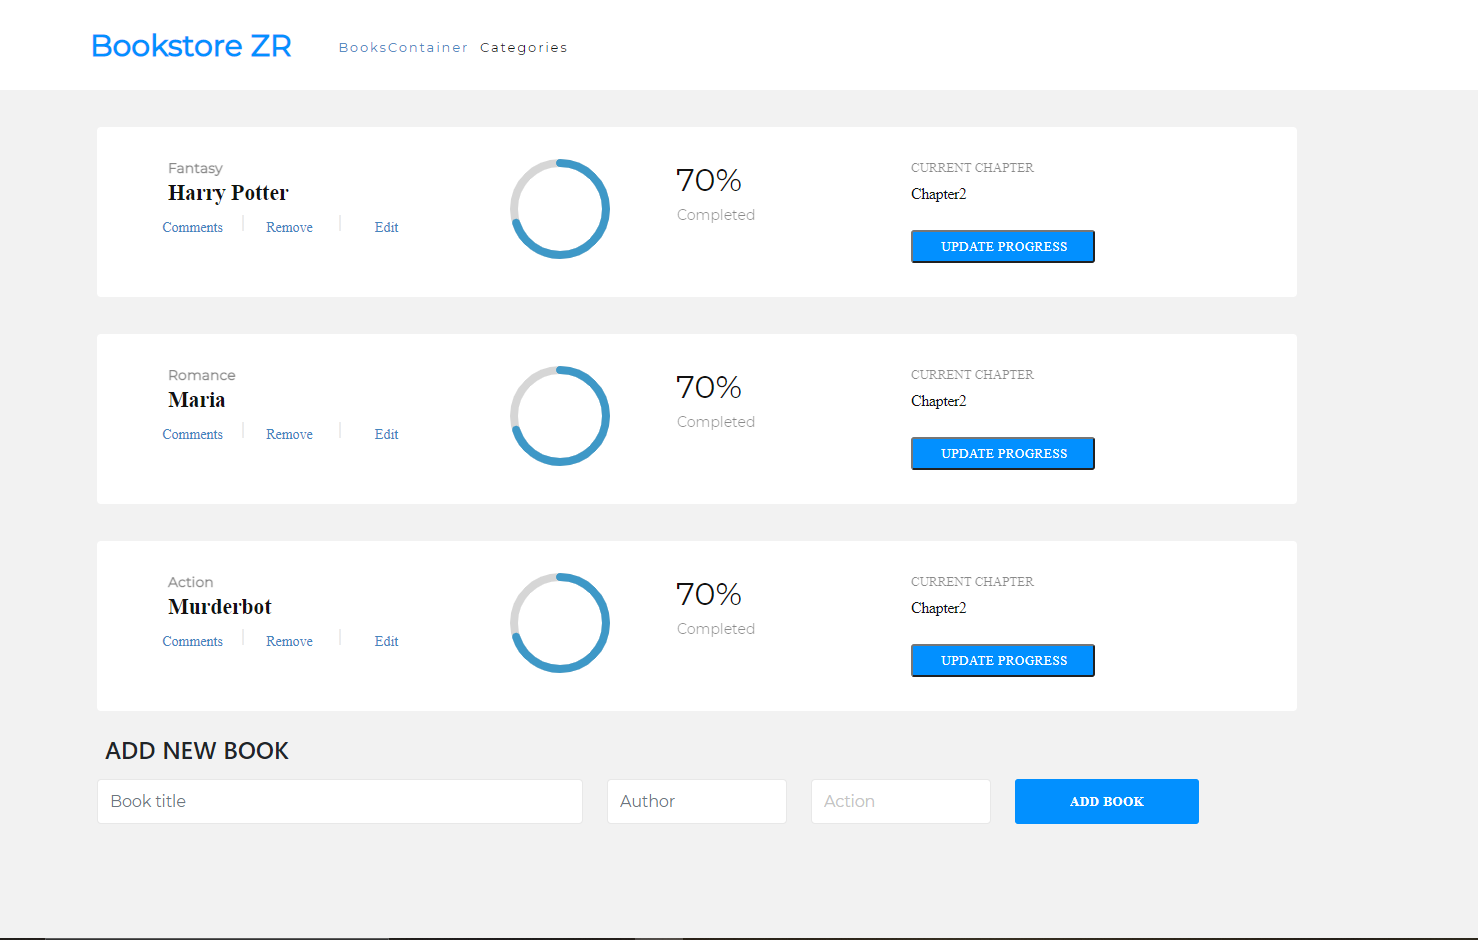
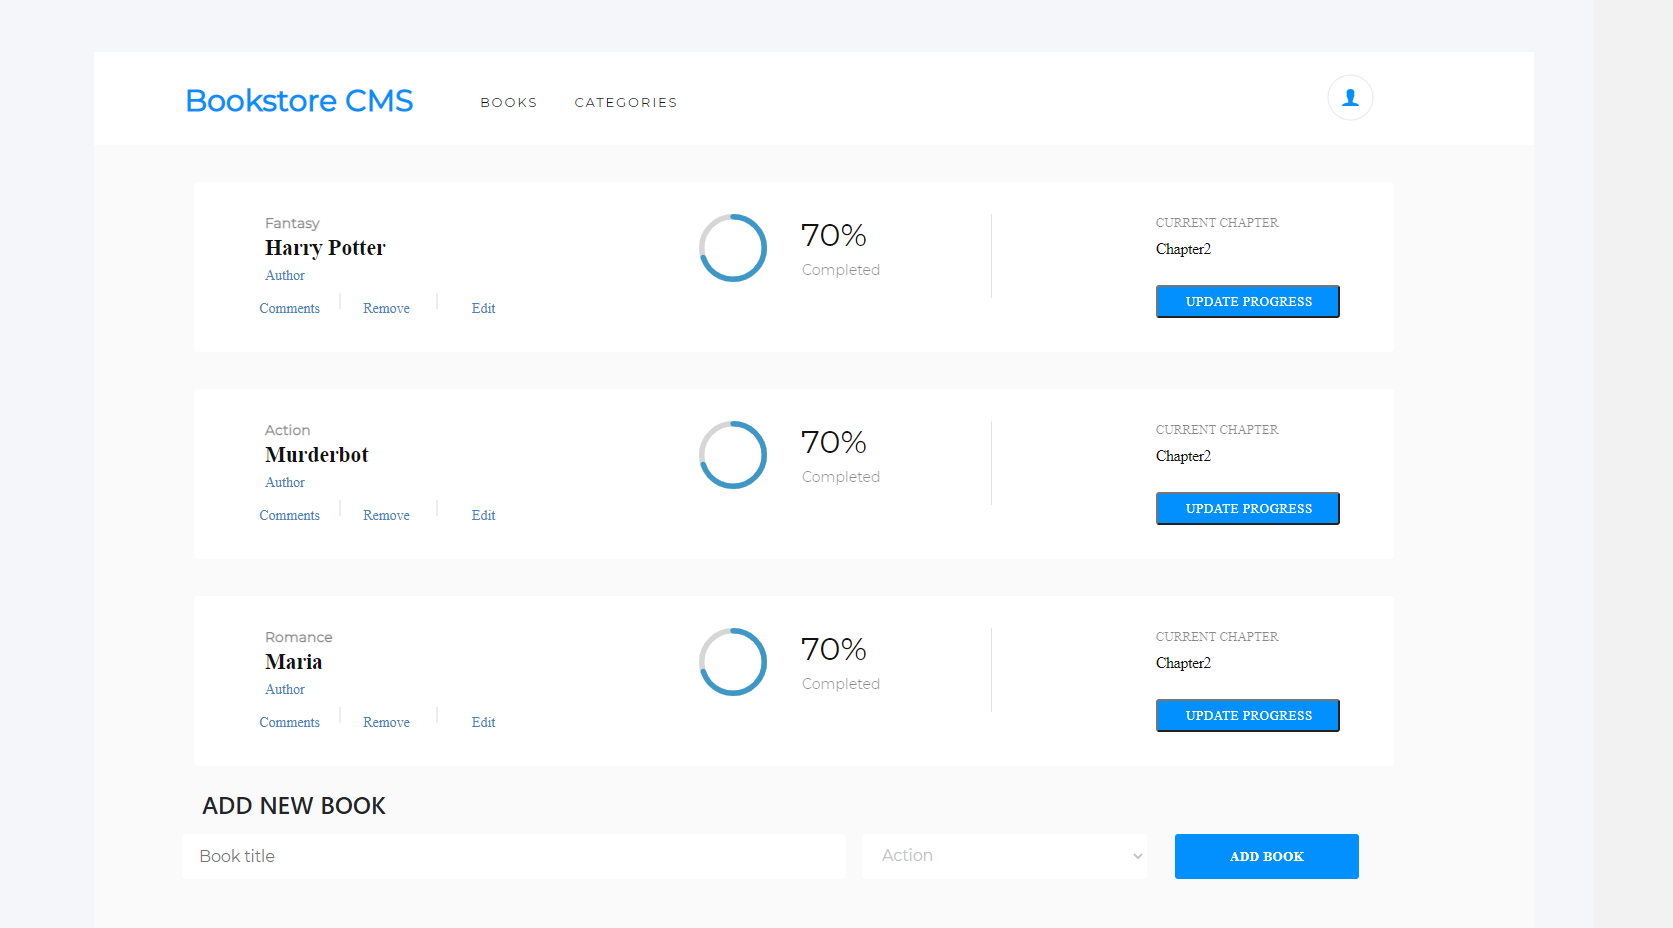
Fix requirements for the style

diff --git a/src/App.css b/src/App.css
@@ -6,6 +6,11 @@ li {
   list-style: none;
 }
 
+.line-2 {
+  border-right: 1px solid #dee2e6 !important;
+  padding-bottom: 2%;
+}
+
 .category {
   width: 3.063rem;
   height: 1.125rem;
@@ -142,10 +147,13 @@ li {
   width: 75rem;
   height: 10.625rem;
   margin: 2.313rem 6.25rem 0;
-  padding: 2rem 9.188rem 1.625rem 1.688rem;
+  padding: 2rem 4rem 1.625rem 1.688rem;
   border-radius: 4px;
   border: solid 1px var(--white);
   background-color: #fff;
+}
+.progress-ul {
+  padding-left: 1% !important;
 }
 
 .title-app {
@@ -183,11 +191,11 @@ li {
 
 a {
   text-decoration: none;
-  color: #121212 !important;
+  color: #181818 !important;
 }
 
 .active-link {
-  color: #4386bf !important;
+  color: #121212 !important;
 }
 
 .add-form {
@@ -226,11 +234,44 @@ a {
   color: #fff;
 }
 
-.input-form {
+.user {
+  position: absolute;
+  left: 83rem;
+  top: 166px;
+}
+
+.author {
+  width: 6.688rem;
+  height: 1.188rem;
+  margin: 0.25rem 0 0;
+  font-family: RobotoSlab;
+  font-size: 0.875rem;
+  font-weight: 300;
+  font-stretch: normal;
+  font-style: normal;
+  line-height: normal;
+  letter-spacing: normal;
+  color: #4386bf;
+}
+
+#root {
+  width: 100rem;
+  height: 89.625rem;
+  padding: 9.313rem 3.75rem 7.688rem 6.25rem;
+  background-color: #f5f6fa;
+}
+.App {
+  background-color: #fafafa;
+  height: 68.563rem;
+}
+
+.input-title {
+  width: 41.5rem;
   height: 2.813rem;
+  margin-right: 1rem;
+  padding: 0.813rem 35.688rem 0.813rem 1.063rem;
   border-radius: 4px;
-  border: solid 1px #e8e8e8;
-  background-color: #fff;
+  border: solid 1px var(--white);
   font-family: Montserrat, "Times New Roman", Times, serif !important;
   font-size: 1rem;
   font-weight: normal;
@@ -239,4 +280,31 @@ a {
   line-height: normal;
   letter-spacing: -0.15px;
   color: #c4c4c4;
+}
+
+.input-category {
+  width: 17.813rem;
+  height: 2.813rem;
+  margin: 0;
+  padding: 0.375rem 0.938rem 0.563rem 1rem;
+  border-radius: 4px;
+  border: solid 1px var(--white);
+  background-color: #fff;
+  font-family: Montserrat;
+  font-size: 1rem;
+  font-weight: normal;
+  font-stretch: normal;
+  font-style: normal;
+  line-height: normal;
+  letter-spacing: -0.15px;
+  color: #c4c4c4;
+}
+
+.div-i {
+  padding: 0;
+  margin: 0;
+}
+
+.div-button {
+  margin-left: 1rem;
 }

diff --git a/src/components/FormBook.js b/src/components/FormBook.js
@@ -30,27 +30,23 @@ const FormBook = () => {
         ADD NEW BOOK
       </h4>
       <form className="row  align-items-center">
-        <div className="col-5">
-          <div className="input-group book-title">
-            <input type="text" className="form-control input-form" id="title" name="title" placeholder="Book title" required />
-          </div>
-        </div>
-        <div className="col-2">
-          <div className="input-group book-author">
-            <input type="text" className="form-control input-form" id="author" name="author" placeholder="Author" required />
+        <div className="col  div-i">
+          <div className="input-group ">
+            <input type="text" className=" input-form input-title" id="title" name="title" placeholder="Book title" required />
           </div>
         </div>
 
-        <div className="col-2">
-          <select className="form-control input-form" id="category" placeholder="category">
+        <div className="col div-i">
+          <select className=" input-form input-category" id="category" placeholder="category">
             <option>Action</option>
             <option>Romance</option>
             <option>Fantasy</option>
             <option>Mistery</option>
+            <option>Fiction</option>
           </select>
         </div>
 
-        <div className="col-2">
+        <div className="col div-button">
           <button type="submit" className="btn btn-add-book" onClick={submitBookToStore}>ADD BOOK</button>
         </div>
       </form>

diff --git a/src/components/Book.js b/src/components/Book.js
@@ -20,7 +20,7 @@ const Book = (props) => {
   return (
 
     <div className="row book-individual mb-3">
-      <div className="Book-info col-4">
+      <div className="Book-info col-5">
         <ul>
           <li className="category">
             {category}
@@ -29,7 +29,7 @@ const Book = (props) => {
             {title}
           </li>
           <li className="author">
-            {' '}
+            Author
           </li>
           <li className="row">
             <button type="button" value={item_id} className="comments col-3">Comments</button>
@@ -45,12 +45,12 @@ const Book = (props) => {
         </ul>
       </div>
       <div className="progress-book col-4">
-        <ul className="row">
-          <li className="col-6">
-            <CircularProgressbar value={completed} styles={{ root: { width: '100px', height: '100px' } }} />
+        <ul className="row progress-ul">
+          <li className="col-3">
+            <CircularProgressbar className="circular" value={completed} styles={{ root: { width: '4.25rem', height: '4.25rem' } }} />
 
           </li>
-          <li className="col-6">
+          <li className="col-7 line-2">
             <h2 className="percentage">
               {completed}
               %
@@ -60,7 +60,7 @@ const Book = (props) => {
         </ul>
 
       </div>
-      <div className="col-4 chapter-info">
+      <div className="col-3 chapter-info">
         <ul>
           <li className="current-chapter">
             CURRENT CHAPTER

diff --git a/src/components/Navbar.js b/src/components/Navbar.js
@@ -1,31 +1,32 @@
 import React from 'react';
 import { NavLink } from 'react-router-dom';
+import user from '../assets/user.PNG';
 
 const Navbar = () => {
   const links = [
     {
       id: 1,
       path: '/',
-      text: 'BooksContainer',
+      text: 'BOOKS',
     },
     {
       id: 2,
       path: '/categories',
-      text: 'Categories',
+      text: 'CATEGORIES',
     },
   ];
   return (
-    <ul className="nav p-3 ">
+    <ul className="nav p-3">
       <div className="nav-item row">
-        <li className="nav-link  col-5">
+        <li className="nav-link  col-6">
           <h4 className="title-app">
-            Bookstore ZR
+            Bookstore CMS
           </h4>
 
         </li>
         {
           links.map((link) => (
-            <li className="nav-item col-3 " key={link.id}>
+            <li className="nav-item col-2" key={link.id}>
               <h4 className="nav-link nav-categories">
                 <NavLink to={link.path} activeClassName="active-link" exact>{link.text}</NavLink>
 
@@ -33,6 +34,9 @@ const Navbar = () => {
             </li>
           ))
         }
+      </div>
+      <div>
+        <img src={user} alt="user" className="user" />
       </div>
     </ul>
   );

diff --git a/MIT.md b/MIT.md
@@ -1,0 +1,6 @@
+Copyright 2021, Zulma Rocio Martinez
+Permission is hereby granted, free of charge, to any person obtaining a copy of this website and associated documentation files, to deal in the website without restriction, including without limitation the rights to use, copy, modify, merge, publish, distribute, sublicense, and/or sell copies of the website, and to permit persons to whom the website is furnished to do so, subject to the following conditions:
+
+The above copyright notice and this permission notice shall be included in all copies or substantial portions of the website.
+
+THE WEBSITE IS PROVIDED "AS IS", WITHOUT WARRANTY OF ANY KIND, EXPRESS OR IMPLIED, INCLUDING BUT NOT LIMITED TO THE WARRANTIES OF MERCHANTABILITY, FITNESS FOR A PARTICULAR PURPOSE AND NONINFRINGEMENT. IN NO EVENT SHALL THE AUTHORS OR COPYRIGHT HOLDERS BE LIABLE FOR ANY CLAIM, DAMAGES OR OTHER LIABILITY, WHETHER IN AN ACTION OF CONTRACT, TORT OR OTHERWISE, ARISING FROM, OUT OF OR IN CONNECTION WITH THE WEBSITE OR THE USE OR OTHER DEALINGS IN THE WEBSITE.

diff --git a/README.md b/README.md
@@ -55,4 +55,4 @@ Give a ⭐ if you like this project!
 
 ## 📝 License
 
-This project is [MIT](LICENSE) licensed.
+This project is [MIT](./MIT.md) licensed.
